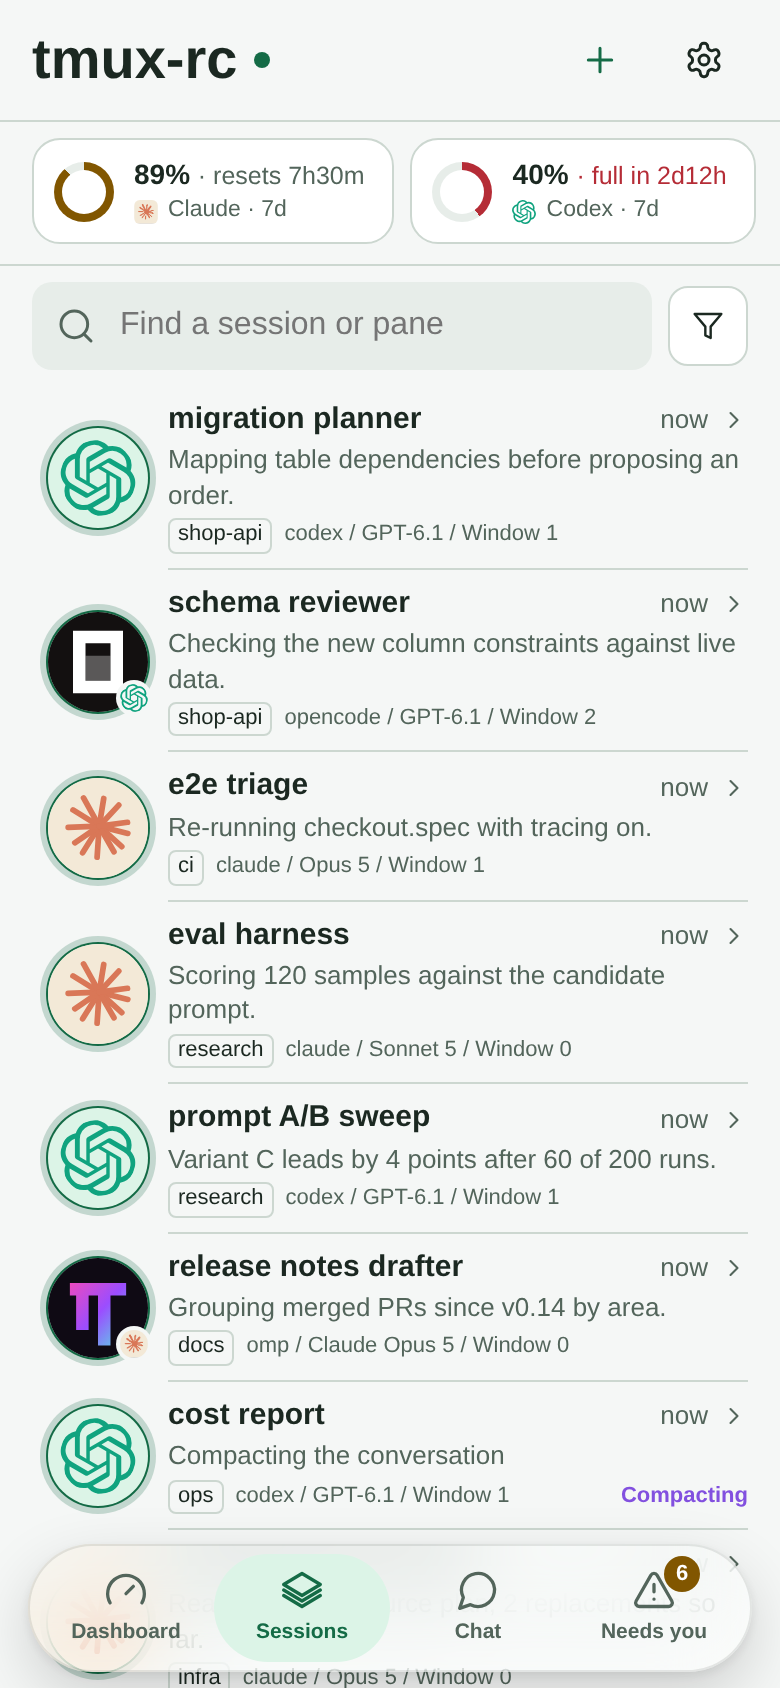
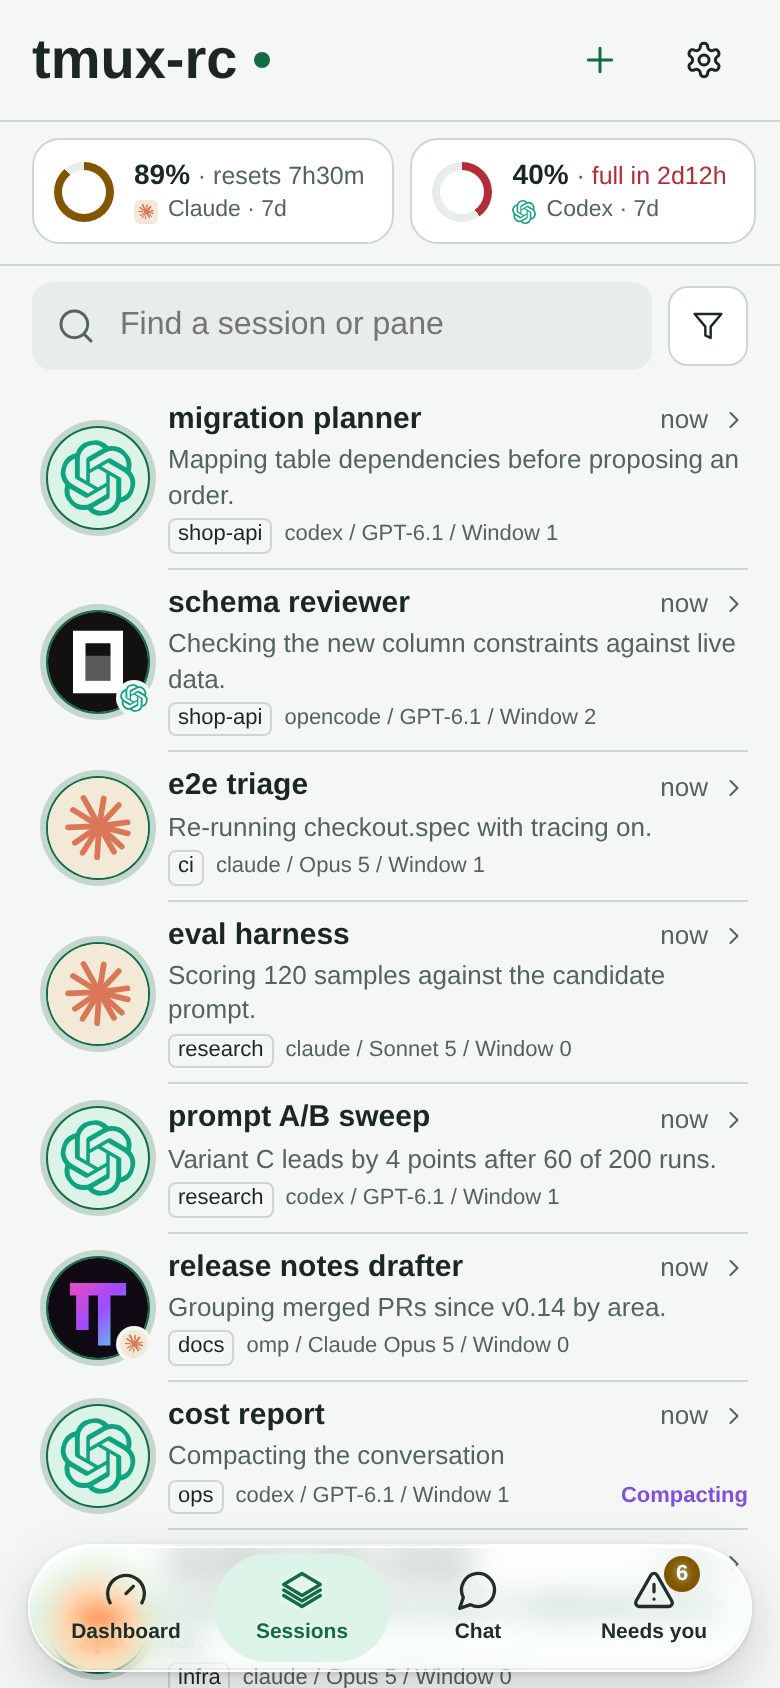
Tab bar: a clearer glass lens, tuned per theme (#447)
A thin fill so the list reads through, a light blur with strong saturation so it is vivid
rather than milky, a bright top edge and a sheen down the pill, and a soft shadow; light and
dark tune their own, and labels take a halo of the glass's tint to stay legible over busy
rows. No SVG refraction, which only Chromium draws.

diff --git a/web/m/style.css b/web/m/style.css
@@ -168,13 +168,22 @@ a.icon-button { color: var(--fg); text-decoration: none; }
 .empty { padding: 44px 24px; text-align: center; color: var(--muted); }
 /* The phone's tab bar: Dashboard, Sessions, the mic, Chat and Needs you on a glass pill that
    floats over the page's foot (which leaves it --bar-room), so the list shows through it.
-   Chat and the mic are toggles in the thumb's reach; only Needs you carries a count. */
+   Chat and the mic are toggles in the thumb's reach; only Needs you carries a count.
+   The glass reads as a lens (iOS 26's, as GitHub's app has it): a thin fill, so what is under
+   it shows; a light blur with strong saturation, so it is vivid rather than milky; a bright
+   top edge and a sheen fading down it; a soft shadow. Each theme tunes its own, and labels
+   take a halo of the glass's tint so they stay legible over busy rows. Refraction would need
+   an SVG backdrop filter, which only Chromium draws, so there is none. */
 #app { --bar-room: calc(84px + max(8px, env(safe-area-inset-bottom))); }
 #list-nav { position: absolute; z-index: 3; left: 14px; right: 14px; bottom: max(8px, env(safe-area-inset-bottom)); max-width: 480px; margin: 0 auto; display: flex; height: 64px; padding: 4px; border-radius: 32px;
-  background: color-mix(in srgb, var(--surface) 55%, transparent); -webkit-backdrop-filter: blur(22px) saturate(180%); backdrop-filter: blur(22px) saturate(180%);
-  border: 1px solid color-mix(in srgb, var(--fg) 10%, transparent); box-shadow: 0 12px 32px rgb(0 0 0 / .16), 0 2px 6px rgb(0 0 0 / .08); }
-#list-nav button { flex: 1 1 0; min-width: 0; width: auto; height: auto; min-height: 0; display: flex; flex-direction: column; align-items: center; justify-content: center; gap: 3px; padding: 0 2px; border-radius: 28px; font-size: 10.5px; font-weight: 600; white-space: nowrap; color: var(--muted); box-shadow: none; }
-#list-nav svg { width: 22px; height: 22px; }
+  --fill: rgb(28 34 31 / .18); --sheen: rgb(255 255 255 / .12); --edge: rgb(255 255 255 / .14); --spec: rgb(255 255 255 / .3); --ink: #e3eae6; --halo: rgb(0 0 0 / .55);
+  --lens: blur(8px) saturate(200%) brightness(.8); --drop: 0 12px 30px rgb(0 0 0 / .55), 0 2px 6px rgb(0 0 0 / .35);
+  background: linear-gradient(180deg, var(--sheen), transparent 55%), var(--fill); -webkit-backdrop-filter: var(--lens); backdrop-filter: var(--lens);
+  border: 1px solid var(--edge); box-shadow: inset 0 1px 0 var(--spec), inset 0 -1px 1px rgb(0 0 0 / .06), var(--drop); }
+:root.light #list-nav { --fill: rgb(255 255 255 / .08); --sheen: rgb(255 255 255 / .38); --edge: rgb(255 255 255 / .65); --spec: #fff; --ink: #1f2e27; --halo: rgb(255 255 255 / .7);
+  --lens: blur(8px) saturate(220%) brightness(1.03); --drop: 0 10px 28px rgb(0 0 0 / .16), 0 1px 3px rgb(0 0 0 / .12); }
+#list-nav button { flex: 1 1 0; min-width: 0; width: auto; height: auto; min-height: 0; display: flex; flex-direction: column; align-items: center; justify-content: center; gap: 3px; padding: 0 2px; border-radius: 28px; font-size: 10.5px; font-weight: 600; white-space: nowrap; color: var(--ink); text-shadow: 0 0 4px var(--halo); box-shadow: none; }
+#list-nav svg { width: 22px; height: 22px; filter: drop-shadow(0 0 3px var(--halo)); }
 #list-nav :is([aria-pressed="true"], #chat.active) { background: var(--accent-bg); color: var(--accent); }
 #list-nav #attention-tab[aria-pressed="true"] { background: var(--amber-bg); color: var(--amber); }
 #list-nav #chat::after { content: attr(aria-label); }
